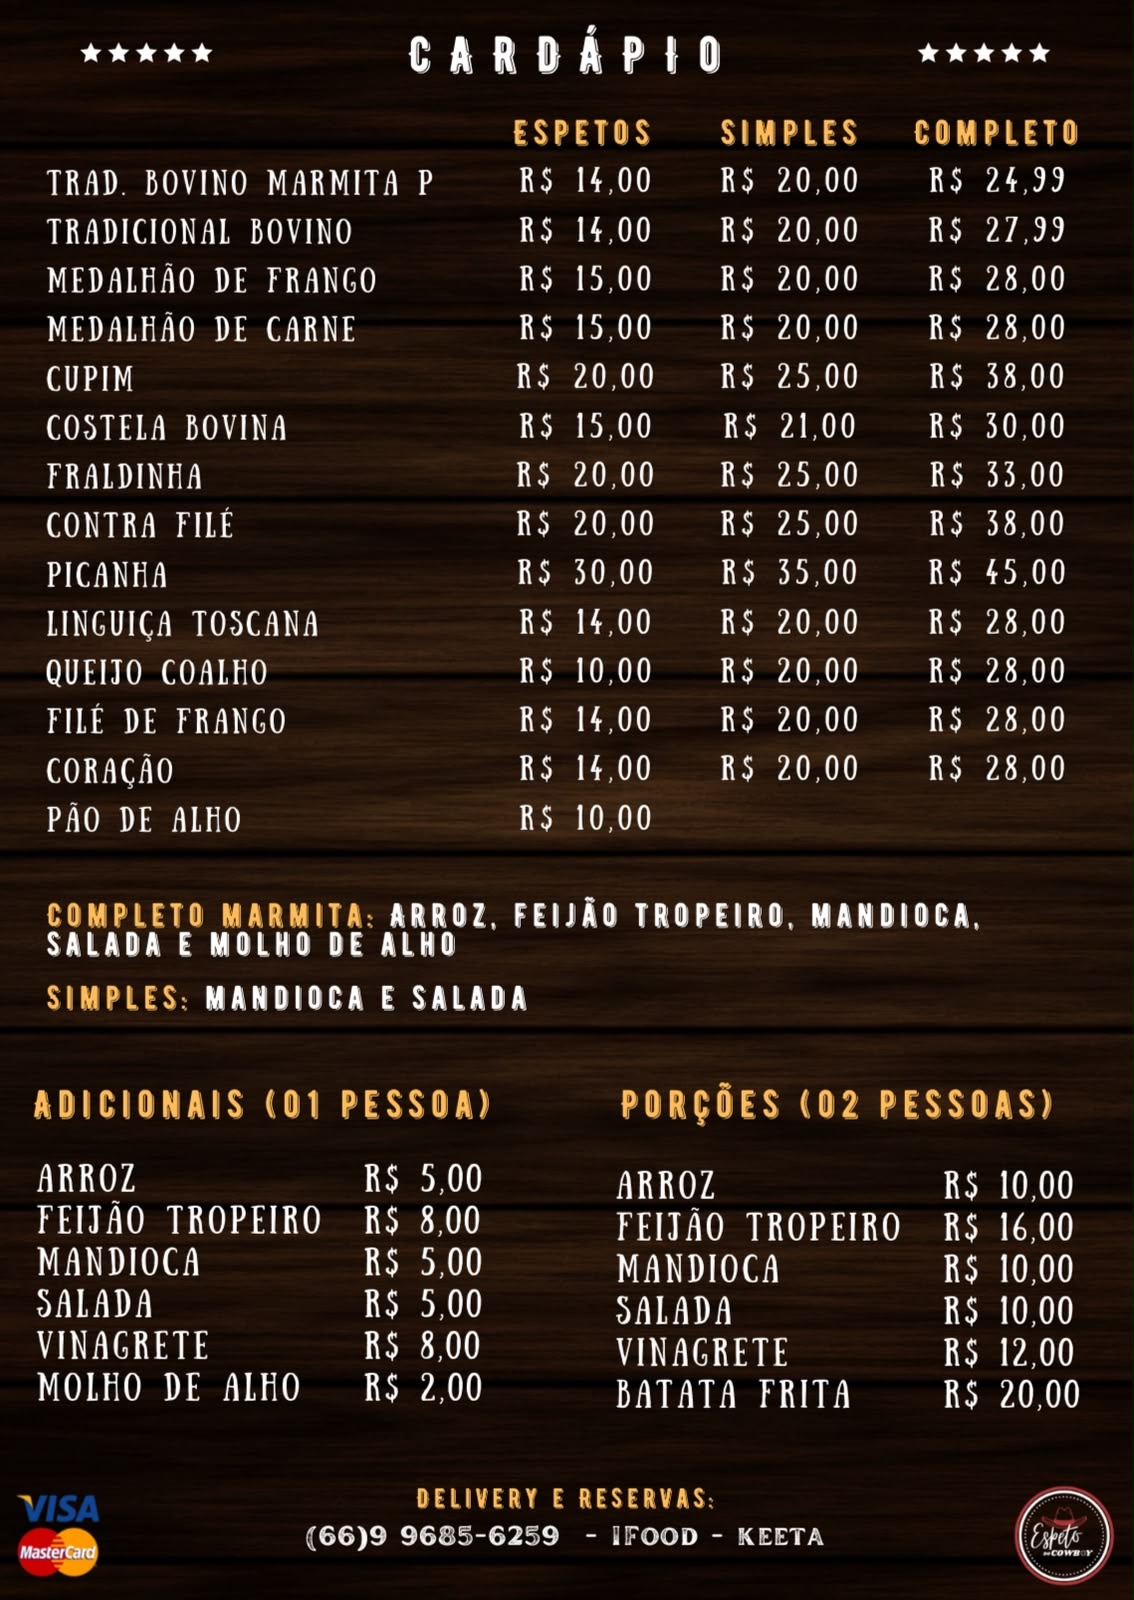
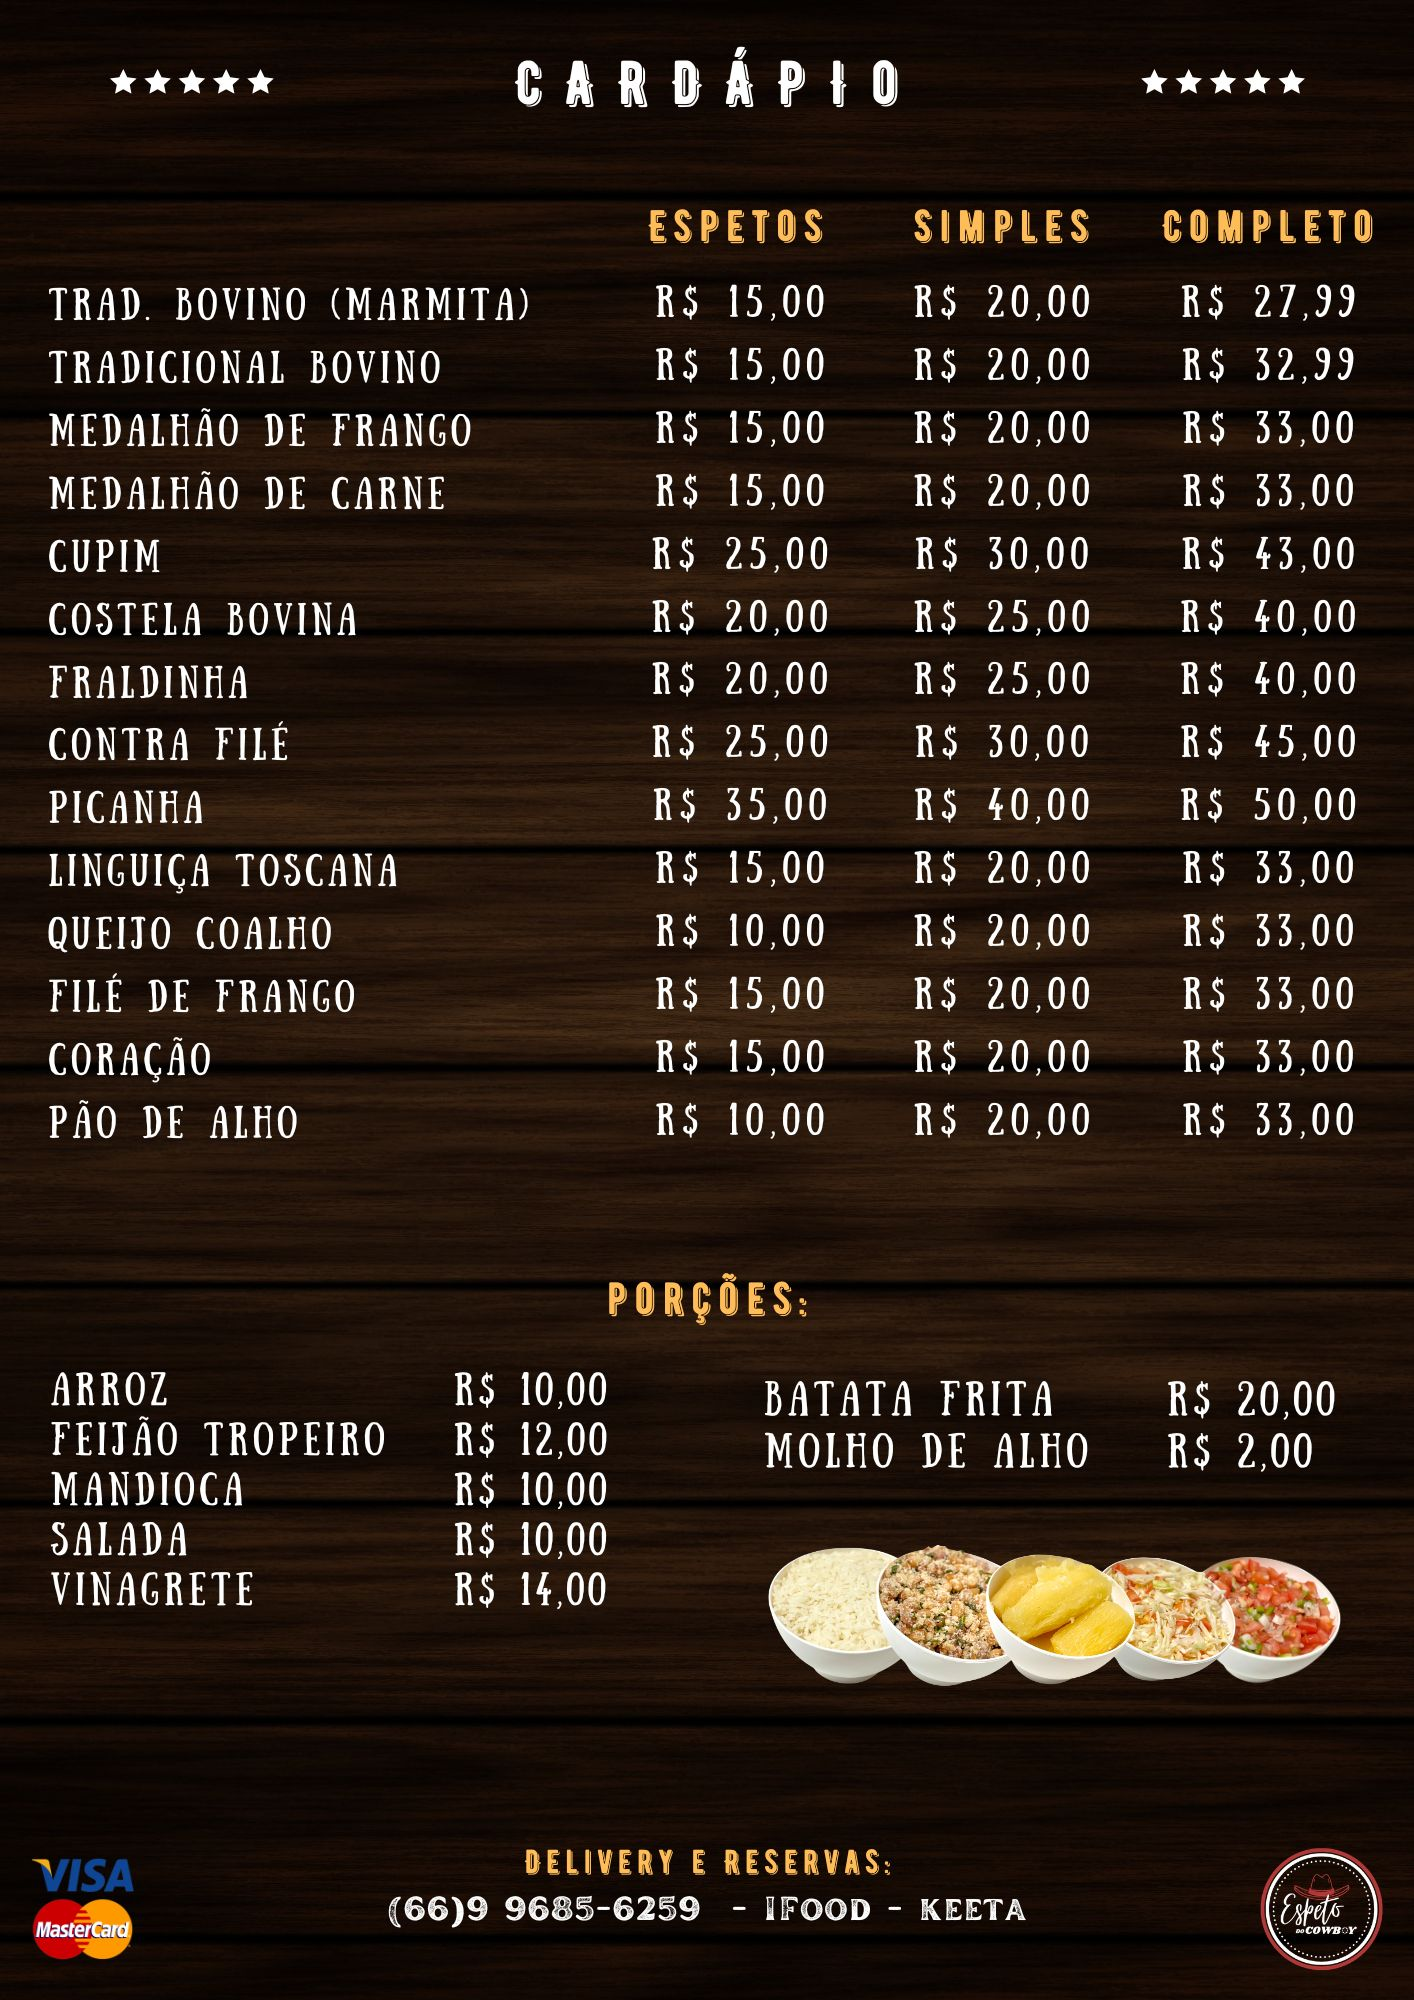
feat: update menu images and refine labels
Updated menu front and verso images and adjusted the subtitle for the front page to accurately reflect the current menu offerings. Cache busting was applied to the image assets.

diff --git a/src/components/MenuModal.tsx b/src/components/MenuModal.tsx
@@ -12,15 +12,15 @@ const MENU_PAGES = [
   {
     id: 'frente',
     title: 'Frente',
-    subtitle: 'Espetos, Marmitas, Adicionais e Porções',
-    src: '/assets/cardapio_frente.jpeg',
+    subtitle: 'Espetos, Marmitas e Porções',
+    src: '/assets/cardapio_frente.jpeg?v=2',
     alt: 'Cardápio Espeto do Cowboy - Frente (Espetos, Simples, Completo, Porções)',
   },
   {
     id: 'verso',
     title: 'Verso',
     subtitle: 'Chapas de Picanha, Costela e Bebidas',
-    src: '/assets/cardapio_verso.jpeg',
+    src: '/assets/cardapio_verso.jpeg?v=2',
     alt: 'Cardápio Espeto do Cowboy - Verso (Chapas e Bebidas)',
   },
 ];
